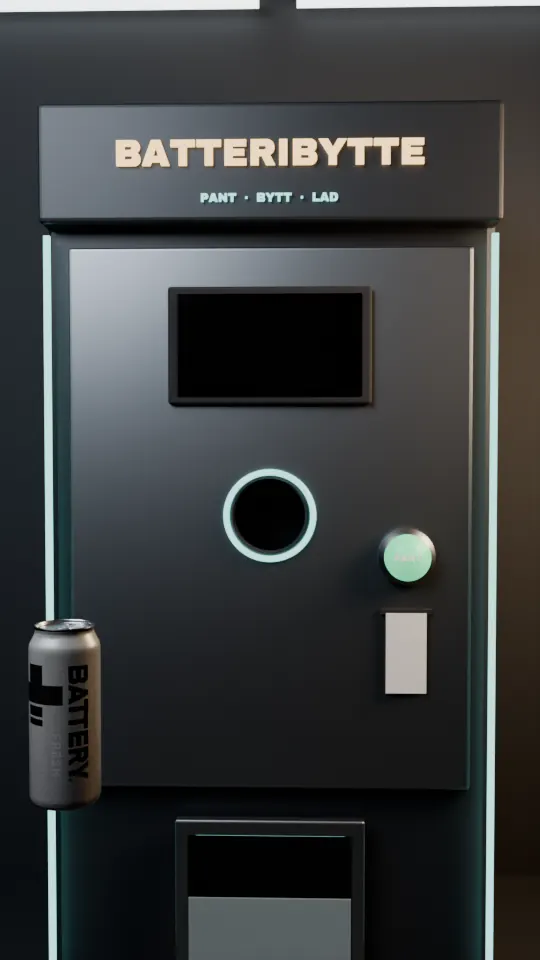
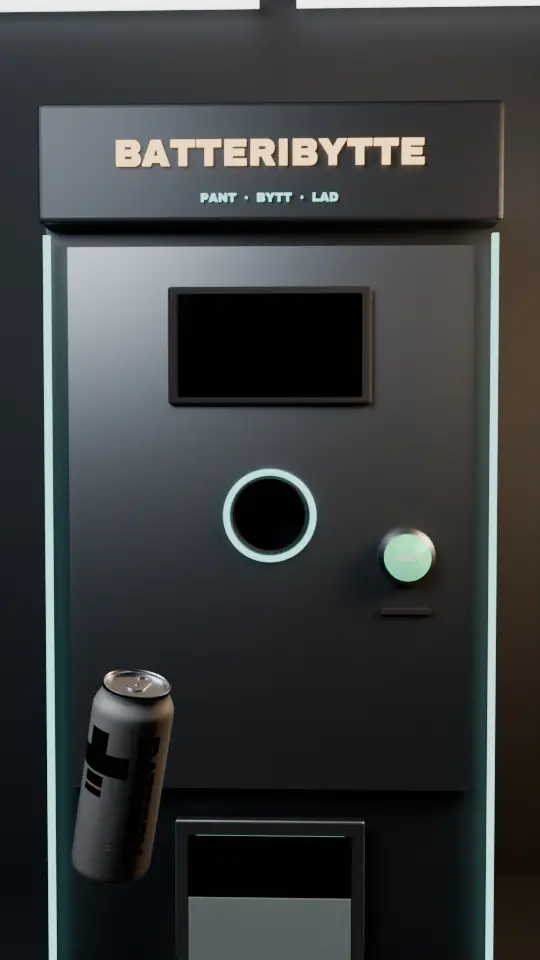
Stillbilder fra Cycles: plakat, lett reserve og nytt delingsbilde
Claude-Session: https://claude.ai/code/session_01FQZD6CDDEqx3bD7pBx6gqG

Changed region(s): [[0.0296, 0.25, 0.3259, 1.0], [0.8593, 0.2188, 0.9185, 0.8125], [0.7111, 0.625, 0.8, 0.75]]

diff --git a/tools/blender/render_stills.py b/tools/blender/render_stills.py
@@ -32,7 +32,7 @@ STATIONS = {
     'hatch':   ((0.0, 0.62, 1.05), (0.0, 0.33, 0.0), 48),
     'hero':    ((0.0, 0.98, 1.05), (0.0, 0.95, 0.45), 40),
     'finale':  ((0.35, 1.05, 1.9), (0.0, 0.95, 0.2), 48),
-    'og':      ((0.62, 1.12, 1.6), (0.12, 1.02, 0.2), 30),
+    'og':      ((0.95, 1.3, 2.7), (0.1, 1.12, 0.2), 34),
 }
 
 
@@ -111,7 +111,7 @@ SHOTS = {
     'hero':   ('hero', [('Fresh', (0, 0.95, 0.45), (0, 0, 0), False)], [], {'glow': 1.2}),
     'finale': ('finale', [('Fresh', (0, 0.95, 0.45), (0, 0, 0.4), False)], [], {'glow': 0.6}),
     # the share image (assets/og.jpg): the machine at night and the fresh, charged can in front of it
-    'og':     ('og', [('Fresh', (0.05, 0.95, 0.55), (0, 0, 0.5), False)], [], {'glow': 1.0, 'size': (1200, 630), 'out': 'og'}),
+    'og':     ('og', [('Fresh', (0.42, 1.0, 1.25), (0, 0, 0.6), False)], [], {'glow': 1.0, 'size': (1200, 630), 'out': 'og'}),
 }
 
 
@@ -124,7 +124,7 @@ def render_shot(name):
         if n in bpy.data.objects:
             bpy.data.objects[n].hide_render = True
     if extra.get('chamber'):                       # inside the machine: the lasers' red and a little fill
-        for nm, loc, power, col in (('ChamberRed', (0, 0.32, 1.2), 0.6, (1, 0.15, 0.1)), ('ChamberFill', (0.12, 0.2, 1.18), 0.15, (1, 0.95, 0.9))):
+        for nm, loc, power, col in (('ChamberRed', (0, 0.32, 1.2), 3.0, (1, 0.15, 0.1)), ('ChamberFill', (0.12, 0.2, 1.18), 0.8, (1, 0.95, 0.9))):
             l = bpy.data.lights.new(nm, 'POINT'); l.energy, l.color, l.shadow_soft_size = power, col, 0.02
             ob = bpy.data.objects.new(nm, l); bpy.context.collection.objects.link(ob); ob.location = loc
     if 'glow' in extra:                            # the charged can: its lightning veins lit
